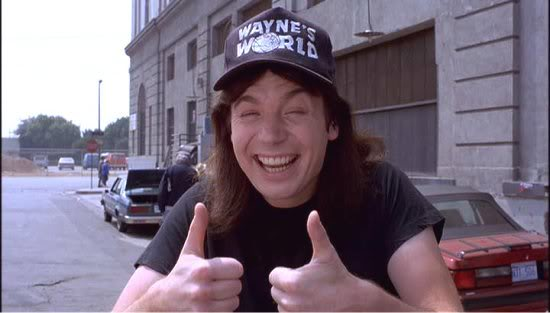
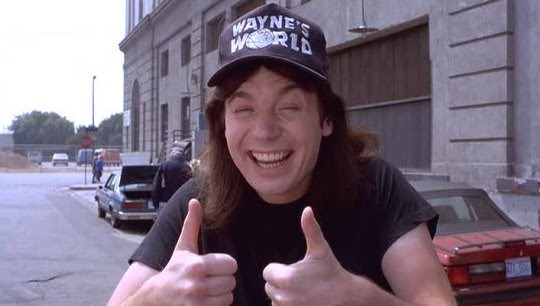
Center the image

diff --git a/about/contact_submit.html b/about/contact_submit.html
@@ -6,7 +6,10 @@ title: Bryce Mueller | Thanks
 <div class="jumbotron">
     <div class="container" style="text-align: center">
         <h4>Thanks for sending me a message! You're amazing!</h4>
-        <img class="img-responsive" src="../assets/waynesworld.jpeg" alt="Profile image">
     </div>
 </div>
+<div class="container" style="align-content: center">
+    <img class="img-responsive" src="../assets/waynesworld.jpeg" alt="Profile image">
+</div>
+
 
